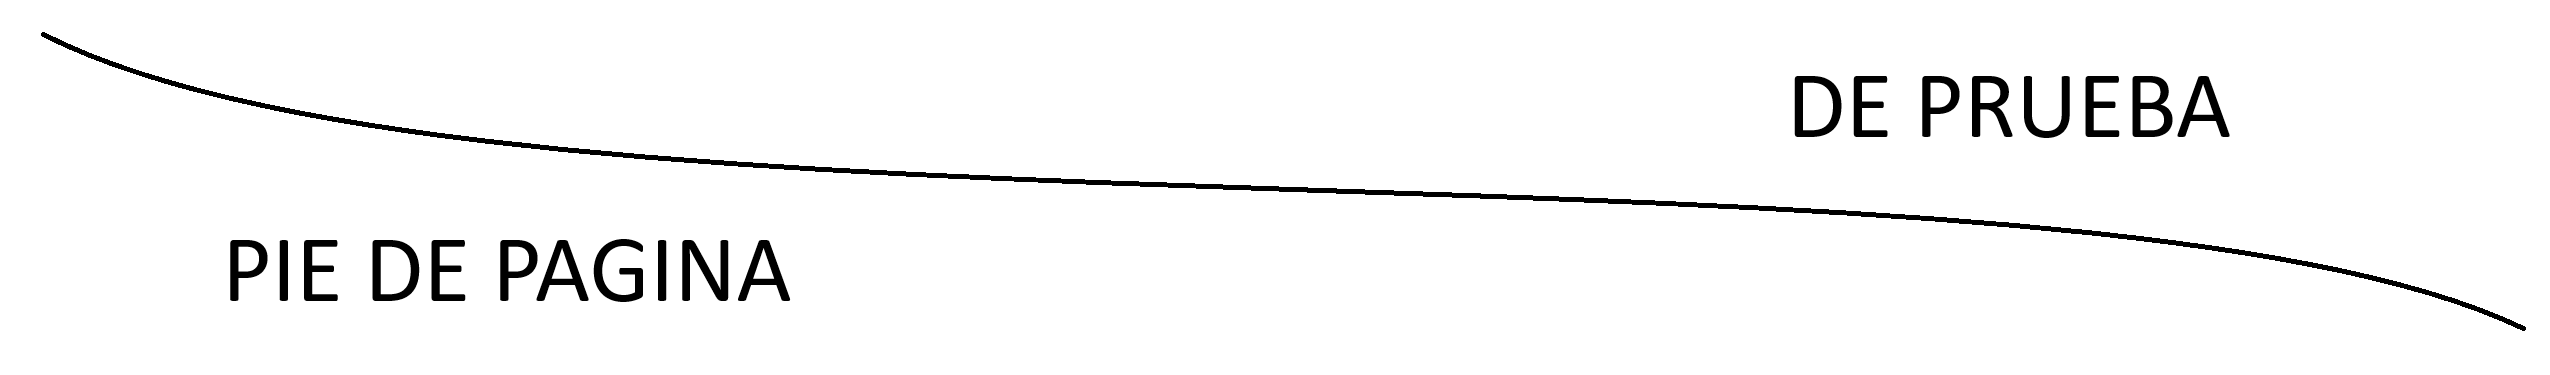
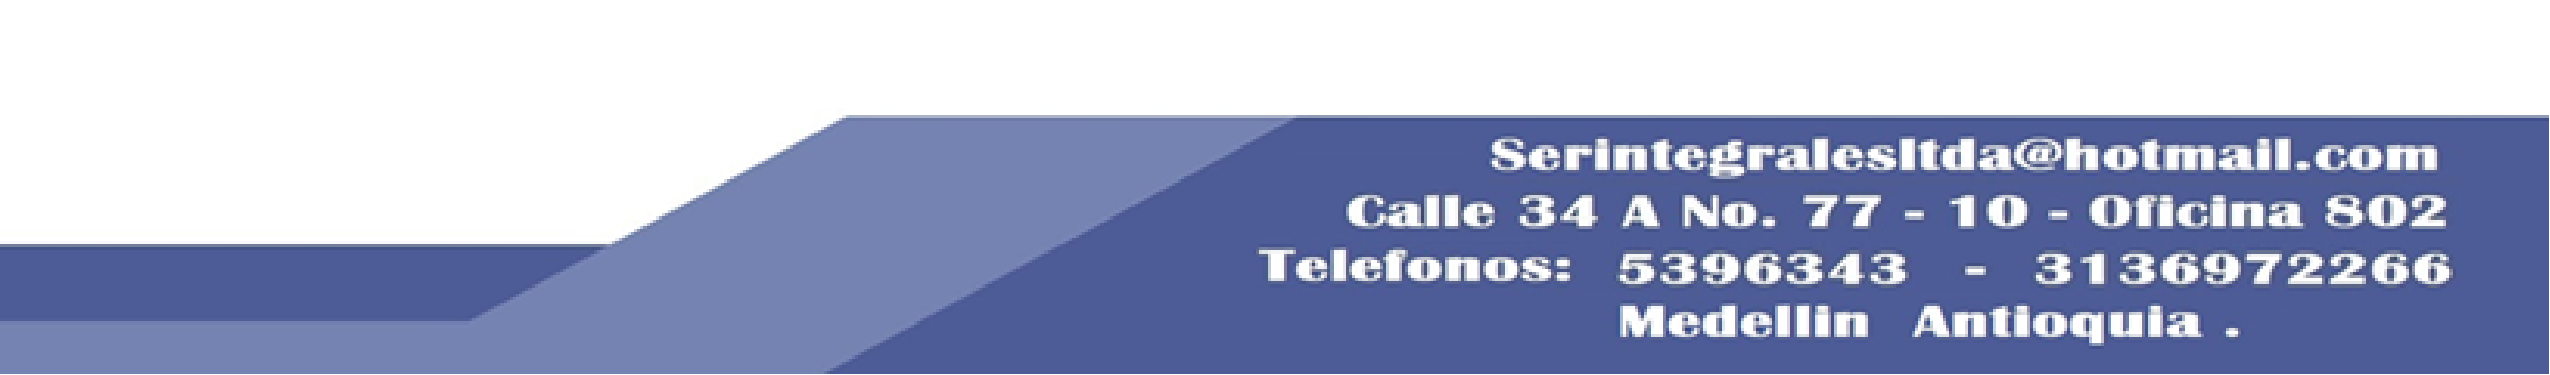
2.6.1.

diff --git a/whatsapp-backend/src/certificates/certificate-service.js b/whatsapp-backend/src/certificates/certificate-service.js
@@ -88,13 +88,13 @@ async function buildCertificatePdfWithPdfKit({ employee, cargo, type, verificati
     doc.moveDown(2);
     doc.font('Helvetica').fontSize(12);
     doc.text(
-      `${cfg.companyLegalName || ''}, identificada con NIT ${cfg.companyNit || '-'}, CERTIFICA que ${employee.nombre || 'Empleado'}, identificado(a) con documento de identidad No. ${employee.documento || '-'}, se encuentra vinculado(a) laboralmente con nuestra compañía desde el ${formatLongDate(employee.fecha_ingreso, cfg)}, desempeñando el cargo de ${employee.cargo_nombre || cargo?.nombre || employee.cargo_codigo || '-'}.`,
+      `${cfg.companyLegalName || ''}, identificada con NIT ${cfg.companyNit || '-'}, CERTIFICA que ${employee.nombre || 'Empleado'}, identificado(a) con documento de identidad No. ${employee.documento || '-'}, se encuentra vinculado(a) laboralmente con nuestra compañía desde el ${formatLongDate(employee.fecha_ingreso, cfg)}, desempeñando el cargo de ${employee.cargo_nombre || cargo?.nombre || employee.cargo_codigo || '-'}, vinculado(a) mediante contrato OBRA O LABOR.`,
       { width: contentWidth, align: 'justify' }
     );
 
     if (type === 'with_salary') {
       doc.moveDown(1);
-      doc.text(`Actualmente devenga un salario básico de ${formatCurrency(salary, cfg)}.`, {
+      doc.text(`Actualmente devenga un salario básico de ${formatCurrency(salary, cfg)} (${formatCurrencyWords(salary)}).`, {
         width: contentWidth,
         align: 'justify'
       });
@@ -206,6 +206,89 @@ function formatCurrency(value, cfg) {
     currency: 'COP',
     maximumFractionDigits: 0
   }).format(Number(value || 0));
+}
+
+function formatCurrencyWords(value) {
+  const amount = Math.round(Number(value || 0));
+  if (!Number.isFinite(amount)) return 'CERO PESOS M/CTE';
+  const absAmount = Math.abs(amount);
+  const words = apocopateOne(spanishIntegerWords(absAmount));
+  const prefix = amount < 0 ? 'menos ' : '';
+  const currency = absAmount === 1 ? 'peso' : 'pesos';
+  return `${prefix}${words} ${currency} m/cte`.toUpperCase();
+}
+
+function spanishIntegerWords(value) {
+  const number = Math.trunc(Number(value || 0));
+  if (number === 0) return 'cero';
+  if (number < 0) return `menos ${spanishIntegerWords(Math.abs(number))}`;
+  if (number < 1000) return spanishThreeDigitWords(number);
+  if (number < 1000000) return joinNumberGroup(number, 1000, 'mil', 'mil');
+  if (number < 1000000000000) return joinNumberGroup(number, 1000000, 'un millón', 'millones');
+  return joinNumberGroup(number, 1000000000000, 'un billón', 'billones');
+}
+
+function joinNumberGroup(number, divisor, singularLabel, pluralLabel) {
+  const group = Math.trunc(number / divisor);
+  const remainder = number % divisor;
+  const prefix = group === 1
+    ? singularLabel
+    : `${apocopateOne(spanishIntegerWords(group))} ${pluralLabel}`;
+  return remainder ? `${prefix} ${spanishIntegerWords(remainder)}` : prefix;
+}
+
+function spanishThreeDigitWords(number) {
+  const units = [
+    '',
+    'uno',
+    'dos',
+    'tres',
+    'cuatro',
+    'cinco',
+    'seis',
+    'siete',
+    'ocho',
+    'nueve',
+    'diez',
+    'once',
+    'doce',
+    'trece',
+    'catorce',
+    'quince',
+    'dieciséis',
+    'diecisiete',
+    'dieciocho',
+    'diecinueve',
+    'veinte',
+    'veintiuno',
+    'veintidós',
+    'veintitrés',
+    'veinticuatro',
+    'veinticinco',
+    'veintiséis',
+    'veintisiete',
+    'veintiocho',
+    'veintinueve'
+  ];
+  const tens = ['', '', '', 'treinta', 'cuarenta', 'cincuenta', 'sesenta', 'setenta', 'ochenta', 'noventa'];
+  const hundreds = ['', 'ciento', 'doscientos', 'trescientos', 'cuatrocientos', 'quinientos', 'seiscientos', 'setecientos', 'ochocientos', 'novecientos'];
+  if (number < 30) return units[number];
+  if (number < 100) {
+    const ten = Math.trunc(number / 10);
+    const unit = number % 10;
+    return unit ? `${tens[ten]} y ${units[unit]}` : tens[ten];
+  }
+  if (number === 100) return 'cien';
+  const hundred = Math.trunc(number / 100);
+  const remainder = number % 100;
+  return remainder ? `${hundreds[hundred]} ${spanishThreeDigitWords(remainder)}` : hundreds[hundred];
+}
+
+function apocopateOne(value) {
+  return String(value || '')
+    .replace(/veintiuno$/u, 'veintiún')
+    .replace(/ y uno$/u, ' y un')
+    .replace(/uno$/u, 'un');
 }
 
 function formatLongDate(value, cfg) {

diff --git a/whatsapp-backend/src/app.js b/whatsapp-backend/src/app.js
@@ -600,8 +600,60 @@ async function loadCertificateContextByEmployeeId(employeeId) {
   if (error) throw error;
   if (!employee?.id) throw certificateError('employee_not_found', 404);
   if (String(employee.estado || '').trim().toLowerCase() !== 'activo') throw certificateError('employee_inactive', 409);
+  employee.fecha_ingreso = await resolveCertificateEmploymentStartDate(employee);
   const cargo = await loadCertificateCargo(employee);
   return { employee, cargo };
+}
+
+async function resolveCertificateEmploymentStartDate(employee = {}) {
+  const historyRows = await loadCertificateEmployeeHistoryRows(employee);
+  const candidates = [
+    employee?.fecha_ingreso,
+    ...historyRows.map((row) => row?.fecha_ingreso)
+  ];
+  const earliest = earliestDateCandidate(candidates);
+  return earliest?.value || employee?.fecha_ingreso || null;
+}
+
+async function loadCertificateEmployeeHistoryRows(employee = {}) {
+  const employeeId = String(employee?.id || '').trim();
+  const documento = String(employee?.documento || '').trim();
+  const queries = [];
+  if (employeeId) {
+    queries.push(
+      supabaseAdmin
+        .from('employee_cargo_history')
+        .select('id,fecha_ingreso')
+        .eq('employee_id', employeeId)
+    );
+  }
+  if (documento) {
+    queries.push(
+      supabaseAdmin
+        .from('employee_cargo_history')
+        .select('id,fecha_ingreso')
+        .eq('documento', documento)
+    );
+  }
+  if (!queries.length) return [];
+
+  const results = await Promise.all(queries);
+  const rowsById = new Map();
+  for (const { data, error } of results) {
+    if (error) throw error;
+    for (const row of (Array.isArray(data) ? data : [])) {
+      const key = String(row?.id || `${row?.fecha_ingreso || ''}-${rowsById.size}`);
+      if (!rowsById.has(key)) rowsById.set(key, row);
+    }
+  }
+  return [...rowsById.values()];
+}
+
+function earliestDateCandidate(values = []) {
+  return (Array.isArray(values) ? values : [])
+    .map((value) => ({ value, iso: toISODate(value) }))
+    .filter((candidate) => candidate.iso)
+    .sort((left, right) => left.iso.localeCompare(right.iso))[0] || null;
 }
 
 async function loadCertificateCargo(employee) {

diff --git a/whatsapp-backend/src/certificates/README.md b/whatsapp-backend/src/certificates/README.md
@@ -55,10 +55,10 @@ El texto principal queda construido asi:
 EMPRESA, identificada con NIT XXXXX, CERTIFICA que EMPLEADO,
 identificado(a) con documento de identidad No. DOCUMENTO,
 se encuentra vinculado(a) laboralmente con nuestra compañía desde FECHA,
-desempeñando el cargo de CARGO.
+desempeñando el cargo de CARGO, vinculado(a) mediante contrato OBRA O LABOR.
 ```
 
-Si el certificado es con salario, se agrega el parrafo de salario configurado desde el cargo del empleado.
+Si el certificado es con salario, se agrega el parrafo de salario configurado desde el cargo del empleado con valor numerico y valor en letras.
 
 ## Verificacion por QR
 
